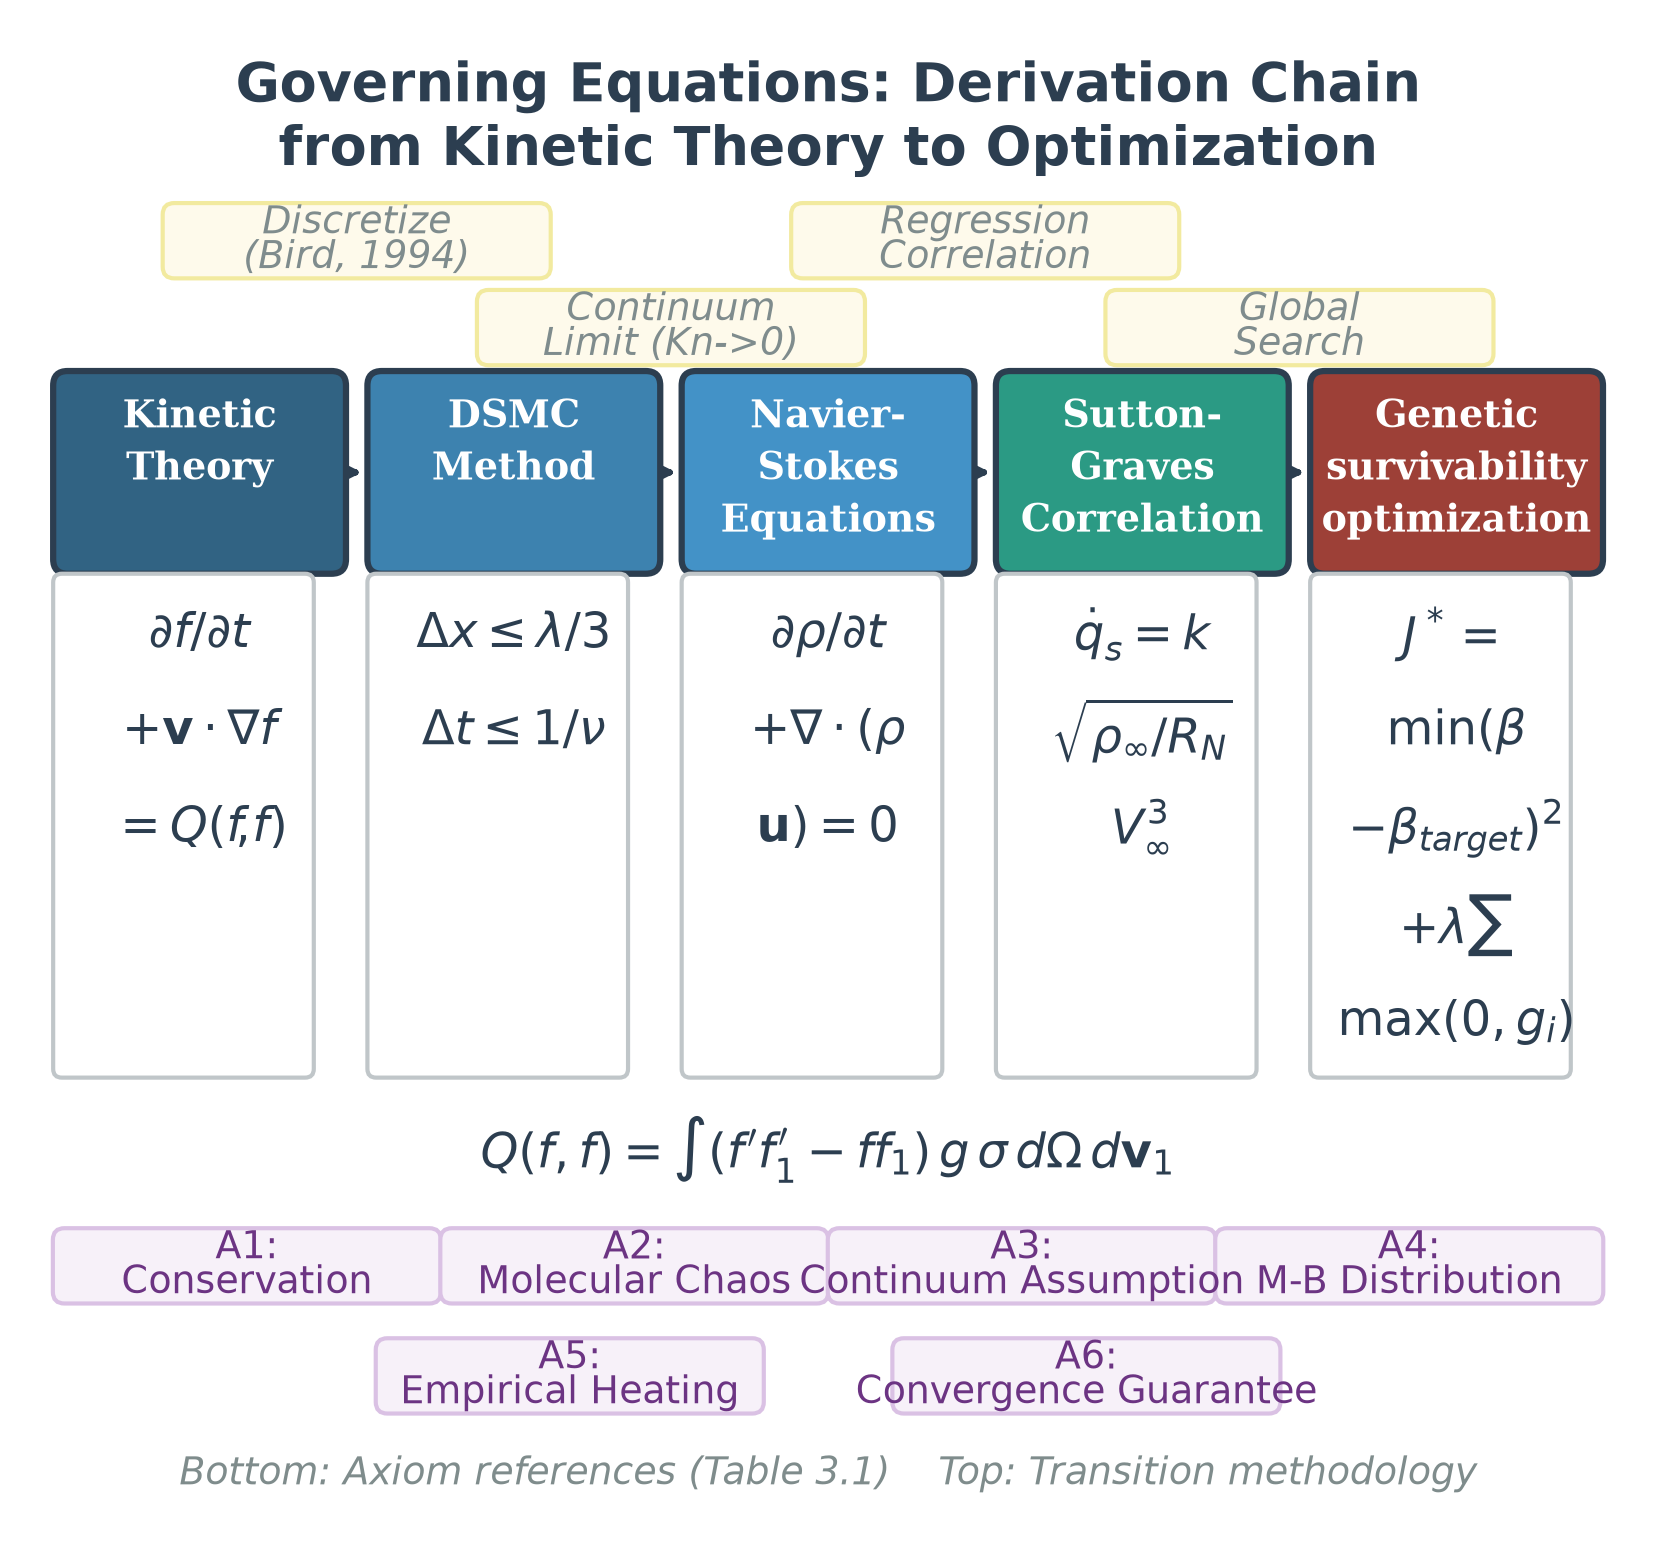
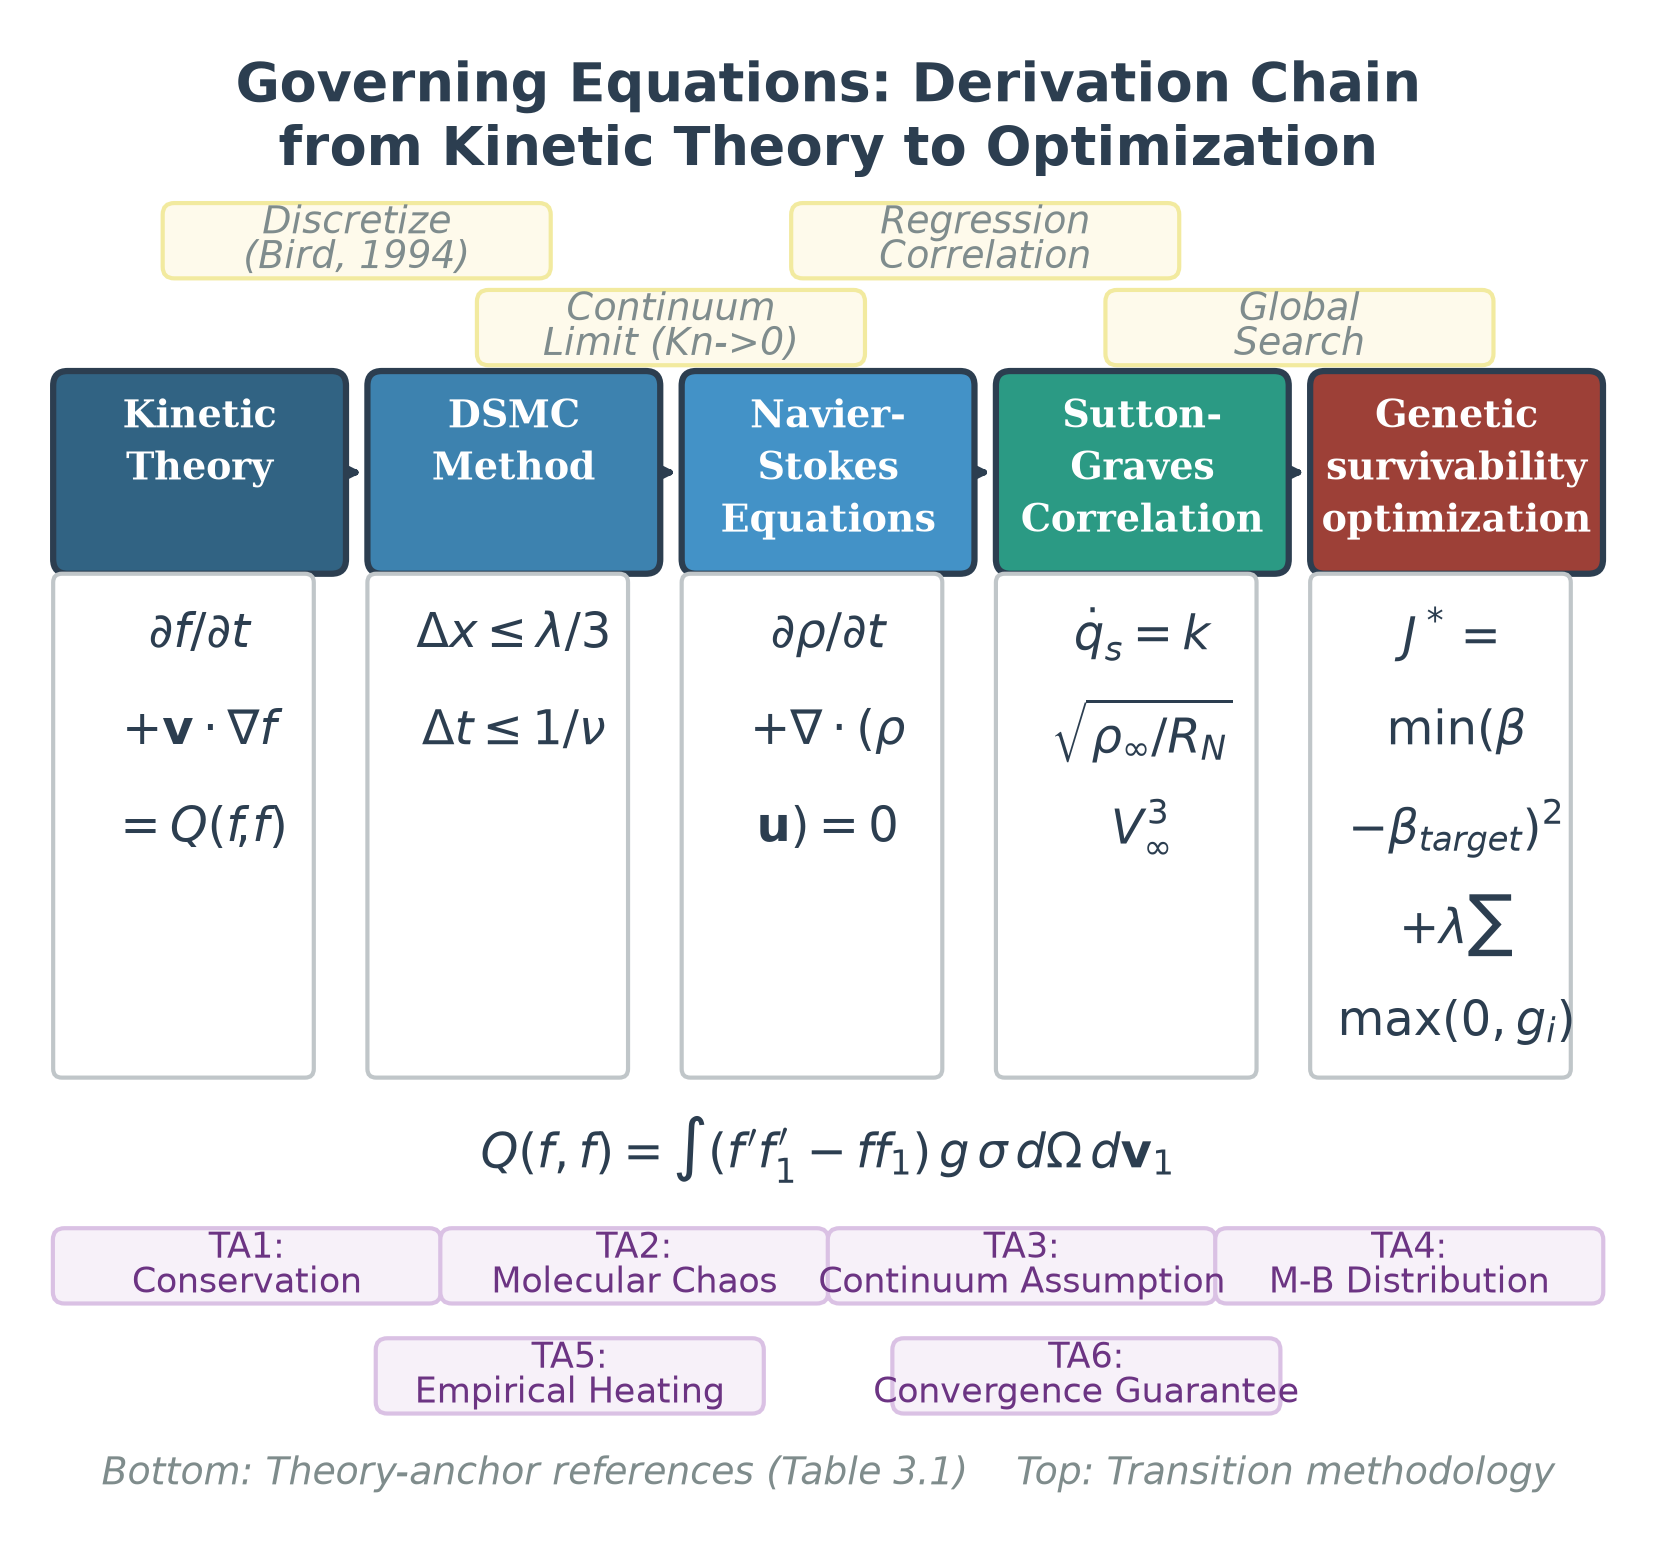
docs(thesis): call the first-principles premises theory anchors, not axioms
Section 3.1 is now Theory Anchors and First Principles, Table 3.1 is the theory-anchor table (TA1 to TA6), and every prose reference, the derivation-chain step tags, the methodology-derivation diagram (LAYER 1 / THEORY ANCHORS, TA labels, legend) and the governing-equation chips and footer use the new name. Labels are sec:theory_anchors and tab:theory_anchors. No axiom wording remains in the thesis sources.

Verified: 0 errors, 0 undefined refs/citations, 0 rerun, 0 blank pages, AccSupp 51/51, 176 pages; the two regenerated diagrams and the affected pages were rendered and inspected.

Changed region(s): [[0.0616, 0.8716, 0.9239, 0.965], [0.2772, 0.7782, 0.9547, 0.8405], [0.0616, 0.7782, 0.2156, 0.8405]]

diff --git a/Lost+Found/ProgressReport/CurrentThesisFinalReport/chapter_03_methodology.tex b/Lost+Found/ProgressReport/CurrentThesisFinalReport/chapter_03_methodology.tex
@@ -1,54 +1,54 @@
 \clearpage
 \chapter{METHODOLOGY}
 
-\section{Research Axioms and First Principles}
-\label{sec:axioms}
+\section{Theory Anchors and First Principles}
+\label{sec:theory_anchors}
 
-Before detailing the computational framework, this section establishes the foundational axioms from which the entire methodology is derived. Each axiom is grounded in established physical theory and validated against the literature reviewed in Chapter~\ref{chap:literature}. The derivation chain---from fundamental kinetic theory to the implemented software pipeline---is summarized in Figure~\ref{fig:methodology_derivation}.
+Before detailing the computational framework, this section establishes the foundational theory anchors from which the entire methodology is derived. Each anchor is grounded in established physical theory and validated against the literature reviewed in Chapter~\ref{chap:literature}. The derivation chain---from fundamental kinetic theory to the implemented software pipeline---is summarized in Figure~\ref{fig:methodology_derivation}.
 
 \begin{figure}[H]
     \centering
-    \BeginAccSupp{method=escape,ActualText={Flowchart of the methodology derivation chain, linking each research axiom to the equation or solver step that implements it.}}%
+    \BeginAccSupp{method=escape,ActualText={Flowchart of the methodology derivation chain, linking each theory anchor to the equation or solver step that implements it.}}%
 \includegraphics[width=\textwidth]{figures/methodology_derivation.png}%
 \EndAccSupp{}%
-    \caption{Methodology derivation from first principles: axioms $\rightarrow$ governing equations $\rightarrow$ numerical methods $\rightarrow$ software implementation. The dashed red arrows indicate data flow between method layers.}
+    \caption{Methodology derivation from first principles: theory anchors $\rightarrow$ governing equations $\rightarrow$ numerical methods $\rightarrow$ software implementation. The dashed red arrows indicate data flow between method layers.}
     \label{fig:methodology_derivation}
 \end{figure}
 
-\subsection{Axiom Set}
-The following axioms form the logical foundation of this research. Each is stated as a proposition, derived from physical theory, and traced to its literature basis.
+\subsection{Theory Anchors}
+The following theory anchors form the logical foundation of this research. Each is stated as a proposition, derived from physical theory, and traced to its literature basis.
 
 \begin{table}[H]
 \centering
-\caption{Research axioms derived from first principles and their literature basis.}
-\label{tab:research_axioms}
+\caption{Theory anchors derived from first principles and their literature basis.}
+\label{tab:theory_anchors}
 \begin{tabularx}{\textwidth}{@{}c >{\RaggedRight\arraybackslash}X >{\RaggedRight\arraybackslash}p{0.20\textwidth} >{\RaggedRight\arraybackslash}p{0.24\textwidth}@{}}
 \toprule
-\textbf{ID} & \textbf{Axiom} & \textbf{Physical Basis} & \textbf{Literature Basis} \\ \midrule
-A1 & Conservation of mass, momentum, and energy & Continuum mechanics & Batchelor (1967), Anderson (1995) \\
-A2 & Molecular chaos (Stosszahlansatz) & Statistical mechanics & Boltzmann (1872), Bird (1994) \\
-A3 & Continuum hypothesis valid for $Kn < 0.01$ & Kinetic theory & Cercignani (1988), Bird (1994) \\
-A4 & Equilibrium distribution follows Maxwell--Boltzmann & Statistical thermodynamics & Chapman \& Cowling (1970) \\
-A5 & Stagnation heating follows $q \propto \sqrt{\rho/R_n} \cdot V^3$ & Blunt body aerothermodynamics & Sutton \& Graves (1971) \\
-A6 & DSMC converges to Boltzmann equation as $N \to \infty$ & Statistical convergence & Bird (1994), Wagner (1992) \\
+\textbf{ID} & \textbf{Theory Anchor} & \textbf{Physical Basis} & \textbf{Literature Basis} \\ \midrule
+TA1 & Conservation of mass, momentum, and energy & Continuum mechanics & Batchelor (1967), Anderson (1995) \\
+TA2 & Molecular chaos (Stosszahlansatz) & Statistical mechanics & Boltzmann (1872), Bird (1994) \\
+TA3 & Continuum hypothesis valid for $Kn < 0.01$ & Kinetic theory & Cercignani (1988), Bird (1994) \\
+TA4 & Equilibrium distribution follows Maxwell--Boltzmann & Statistical thermodynamics & Chapman \& Cowling (1970) \\
+TA5 & Stagnation heating follows $q \propto \sqrt{\rho/R_n} \cdot V^3$ & Blunt body aerothermodynamics & Sutton \& Graves (1971) \\
+TA6 & DSMC converges to Boltzmann equation as $N \to \infty$ & Statistical convergence & Bird (1994), Wagner (1992) \\
 % PINN-HIDDEN (2026-10-20): PINN is not part of the main pipeline required to produce the optimised body; removed deliberately, do not reintroduce.
 \bottomrule
 \end{tabularx}
 \end{table}
 
 \subsection{Derivation Chain}
-The methodology is constructed by chaining the axioms through a sequence of mathematical derivations. Each step introduces a specific equation or method that is implemented in the software pipeline.
+The methodology is constructed by chaining the theory anchors through a sequence of mathematical derivations. Each step introduces a specific equation or method that is implemented in the software pipeline.
 
-\paragraph{Step 1: Boltzmann Equation (A1, A2, A4).}
+\paragraph{Step 1: Boltzmann Equation (TA1, TA2, TA4).}
 The Boltzmann transport equation governs the evolution of the molecular velocity distribution function $f(\mathbf{x}, \mathbf{v}, t)$:
 \begin{equation}
 \frac{\partial f}{\partial t} + \mathbf{v} \cdot \nabla_{\mathbf{x}} f + \frac{\mathbf{F}}{m} \cdot \nabla_{\mathbf{v}} f = \left(\frac{\delta f}{\delta t}\right)_{\text{coll}}
 \label{eq:boltzmann_dsmc}
 \end{equation}
-where the right-hand side is the collision integral, evaluated under the assumption of molecular chaos (Axiom~A2). The equilibrium solution is the Maxwell--Boltzmann distribution (Axiom~A4).
+where the right-hand side is the collision integral, evaluated under the assumption of molecular chaos (anchor TA2). The equilibrium solution is the Maxwell--Boltzmann distribution (anchor TA4).
 
-\paragraph{Step 2: DSMC Method (A6).}
-Bird's Direct Simulation Monte Carlo method~\cite{bird1994molecular} provides a stochastic solution to Equation~\eqref{eq:boltzmann_dsmc}. As the number of simulated particles $N \to \infty$, the DSMC solution converges to the exact Boltzmann solution (Axiom~A6). The DSMC algorithm proceeds in three steps per time step:
+\paragraph{Step 2: DSMC Method (TA6).}
+Bird's Direct Simulation Monte Carlo method~\cite{bird1994molecular} provides a stochastic solution to Equation~\eqref{eq:boltzmann_dsmc}. As the number of simulated particles $N \to \infty$, the DSMC solution converges to the exact Boltzmann solution (anchor TA6). The DSMC algorithm proceeds in three steps per time step:
 \begin{enumerate}
     \item \textbf{Advection:} Particles are moved ballistically for $\Delta t$.
     \item \textbf{Collisions:} Pairs are selected within each cell using the VSS collision model.
@@ -78,14 +78,14 @@ where $k$ is a gas-specific constant, $\rho_\infty$ is the freestream density, $
 The closed-form cost of Eq.~\eqref{eq:ga_cost} is minimized by a simple genetic algorithm: a population of fifty designs is evolved with tournament selection, uniform crossover, Gaussian mutation and elitism until the best cost stagnates. Because the cost is analytic, an individual is evaluated without a solver call, and the search therefore explores thousands of candidate geometries rather than a handful of DSMC cases. A fifteen-point central composite screen is evaluated first to rank the factors and to fit the linear response surface used for pre-screening.
 
 
-Figure~\ref{fig:governing_equations} summarizes the full derivation chain from kinetic theory to optimization, showing the governing equation at each step and the axiom that anchors it.
+Figure~\ref{fig:governing_equations} summarizes the full derivation chain from kinetic theory to optimization, showing the governing equation at each step and the theory anchor behind it.
 
 \begin{figure}[H]
     \centering
     \BeginAccSupp{method=escape,ActualText={Panel of the governing equations used in the study, listing the continuity, momentum and energy equations together with the state and transport relations.}}%
 \includegraphics[width=\textwidth]{figures/governing_equations.png}%
 \EndAccSupp{}%
-    \caption{Governing equations derivation chain: from the Boltzmann transport equation through DSMC discretization, Navier--Stokes continuum limit, Sutton--Graves engineering correlation to GA-based survivability optimization. Each layer is anchored by the research axioms defined in Table~\ref{tab:research_axioms}.}
+    \caption{Governing equations derivation chain: from the Boltzmann transport equation through DSMC discretization, Navier--Stokes continuum limit, Sutton--Graves engineering correlation to GA-based survivability optimization. Each layer is anchored by the theory anchors defined in Table~\ref{tab:theory_anchors}.}
     \label{fig:governing_equations}
 \end{figure}
 

diff --git a/Lost+Found/ProgressReport/CurrentThesisFinalReport/figures/make_methodology_derivation.py b/Lost+Found/ProgressReport/CurrentThesisFinalReport/figures/make_methodology_derivation.py
@@ -86,7 +86,7 @@ DEVIATIONS FROM THE ORIGINAL ARTWORK
        Python-engine labels with the current pipeline terms (Gaussian
        Cost Function, Genetic Algorithm, Ada GA runner, Ada core
        driven by run.py), matching chapter_03_methodology.tex sections
-       sec:axioms and sec:software_pipeline.
+       sec:theory_anchors and sec:software_pipeline.
 """
 
 from __future__ import annotations
@@ -205,13 +205,13 @@ TITLE = "Methodology Derivation from First Principles"
 # than its box (AXIOM A4). The wrapper below is the safety net.
 ROWS = (
     {
-        "label": ("LAYER 1 /", "AXIOMS"),
+        "label": ("LAYER 1 /", "THEORY ANCHORS"),
         "color": ROW_COLORS[0],
         "boxes": (
-            ("A1: Conservation", "(Mass,", "Momentum,", "Energy)"),
-            ("A2: Molecular", "Chaos", "(Stosszahlansatz)"),
-            ("A3: Continuum", "Hypothesis", "(valid for", "Kn<0.01)"),
-            ("A4: Equilibrium", "Distribution", "(MB", "statistics)"),
+            ("TA1: Conservation", "(Mass,", "Momentum,", "Energy)"),
+            ("TA2: Molecular", "Chaos", "(Stosszahlansatz)"),
+            ("TA3: Continuum", "Hypothesis", "(valid for", "Kn<0.01)"),
+            ("TA4: Equilibrium", "Distribution", "(MB", "statistics)"),
         ),
     },
     {
@@ -254,7 +254,7 @@ RED_ARROWS = ((0, 2, "data"), (2, 3, "$J$"))
 
 # Bottom legend: (label, patch colour).
 LEGEND = (
-    ("Axioms (First Principles)", LEGEND_PATCH[0]),
+    ("Theory Anchors (First Principles)", LEGEND_PATCH[0]),
     ("Governing Equations", LEGEND_PATCH[1]),
     ("Numerical Methods", LEGEND_PATCH[2]),
     ("Software Implementation", LEGEND_PATCH[3]),

diff --git a/Lost+Found/ProgressReport/CurrentThesisFinalReport/figures/make_governing_equations.py b/Lost+Found/ProgressReport/CurrentThesisFinalReport/figures/make_governing_equations.py
@@ -116,7 +116,7 @@ TITLE_PT = 13.0
 BOX_TITLE_PT = 9.0
 CHIP_PT = 9.0
 EQ_PT = 11.5
-AXIOM_PT = 9.0
+AXIOM_PT = 8.5
 FOOTER_PT = 9.0
 MIN_PRINTED_PT = 8.0
 
@@ -179,15 +179,15 @@ EQUATIONS = (
 Q_DEF = r"$Q(f,f) = \int (f' f_1' - f f_1)\, g\, \sigma\, d\Omega\, d\mathbf{v}_1$"
 
 AXIOMS = (
-    ("A1:", "Conservation"),
-    ("A2:", "Molecular Chaos"),
-    ("A3:", "Continuum Assumption"),
-    ("A4:", "M-B Distribution"),
-    ("A5:", "Empirical Heating"),
-    ("A6:", "Convergence Guarantee"),
+    ("TA1:", "Conservation"),
+    ("TA2:", "Molecular Chaos"),
+    ("TA3:", "Continuum Assumption"),
+    ("TA4:", "M-B Distribution"),
+    ("TA5:", "Empirical Heating"),
+    ("TA6:", "Convergence Guarantee"),
 )
 
-FOOTER = "Bottom: Axiom references (Table 3.1)    Top: Transition methodology"
+FOOTER = "Bottom: Theory-anchor references (Table 3.1)    Top: Transition methodology"
 
 TMP_NAME = "governing_equations_tmp.png"
 FINAL_NAME = "governing_equations.png"

diff --git a/Lost+Found/ProgressReport/CurrentThesisFinalReport/notes.md b/Lost+Found/ProgressReport/CurrentThesisFinalReport/notes.md
@@ -341,6 +341,13 @@ methodology-derivation diagram were regenerated without the PINN column,
 box, node or stage. Removal sites carry a `PINN-HIDDEN` comment. The page
 count dropped from 194 to 179 and the printed-to-PDF offset is now +25.
 
+Terminology (2026-10-21). The first-principles premises are called
+"theory anchors", not "axioms", throughout the thesis. Section 3.1, its
+subsection, Table 3.1, the derivation-chain steps, the methodology-derivation
+diagram (LAYER 1 / THEORY ANCHORS, TA1 to TA4, legend) and the
+governing-equation chips and footer (TA1 to TA6, "Theory-anchor references")
+all use the new name. Labels are sec:theory_anchors and tab:theory_anchors.
+
 Optimizer conversion (2026-10-21). The main pipeline is analytical: the
 headline heat flux is the closed-form Sutton-Graves correlation, not a
 solver-resolved field. The default optimiser is now a simple genetic
